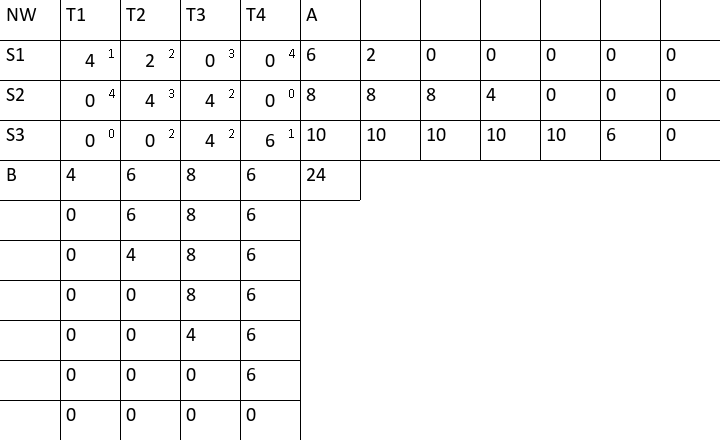
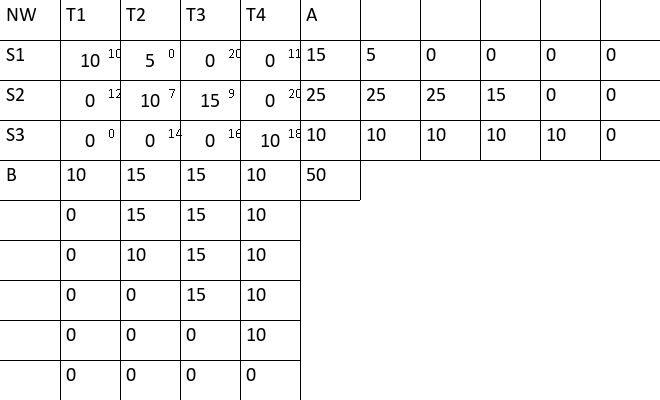
removed E from last screen

diff --git a/building_plan_methods_E/potential_optimizationE.py b/building_plan_methods_E/potential_optimizationE.py
@@ -171,6 +171,9 @@ class PotentialE:
             return True
         else:
             # отрицательных дельт нет, задача оптимизирована
+            for line in self.matrix:
+                for cell in line:
+                    cell.E = 0
             self.table_potentials()
             return False
 
